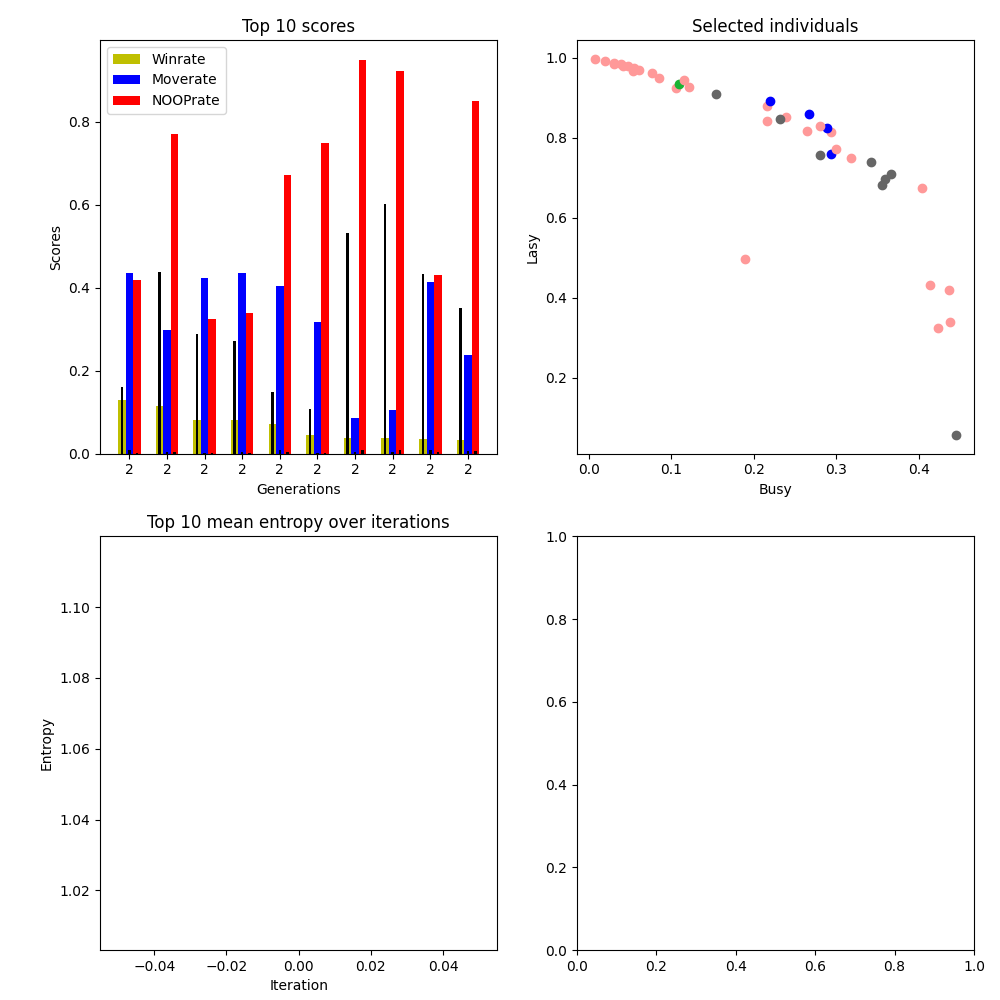
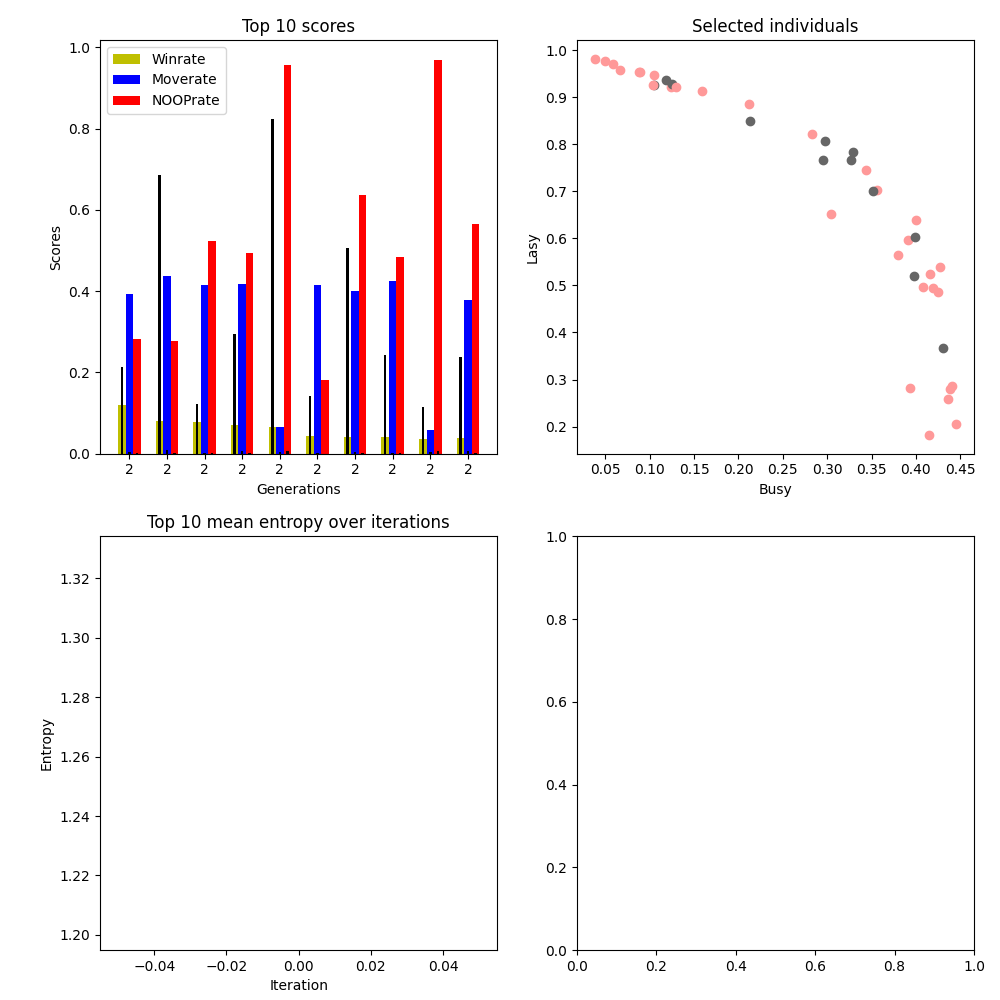
3-16

diff --git a/evolution_server.py b/evolution_server.py
@@ -182,7 +182,7 @@ class EvolutionServer:
         }
         frame_count = 0
         n_games = 0
-        last_pos = 0.0
+        last_pos = [0.0, 0.0]
         actions = [0] * 6
         dist = np.zeros((self.action_dim,), dtype=np.float32)
         while frame_count < max_frame:
@@ -200,12 +200,12 @@ class EvolutionServer:
                 if reward < 0:
                     r['total_punition'] += reward
                 r['no_op_rate'] += int(self.util.is_no_op(action))
-                distance_moved = self.util.pad_move(observation_, last_pos)
+                distance_moved = self.util.pad_move(observation_, last_pos.pop(0))
 
                 moved = int(distance_moved > 0)
 
                 r['move_rate'] += moved
-                last_pos = observation_[4]
+                last_pos.append(observation_[4])
 
                 frame_count += 1
             if done:
@@ -222,7 +222,7 @@ class EvolutionServer:
 
     def play(self, player: Individual, max_frame, observation=None):
         n_games = 0
-        last_pos = 0.0
+        last_pos = [0.0, 0.0]
         last_score_delta = 0
         actions = [0]*6
 
@@ -235,10 +235,10 @@ class EvolutionServer:
             actions[action] += 1
             observation_, reward, done, info = self.env.step(action)
             observation_ = self.util.preprocess(observation_)
-            distance_moved = self.util.pad_move(observation_, last_pos)
+            distance_moved = self.util.pad_move(observation_, last_pos.pop(0))
 
             moved = int(distance_moved > 0)
-            last_pos = observation_[4]
+            last_pos.append(observation_[4])
             delta_score = self.util.score_delta(observation_)
             # win = delta_score - last_score_delta
             # last_score_delta = delta_score
